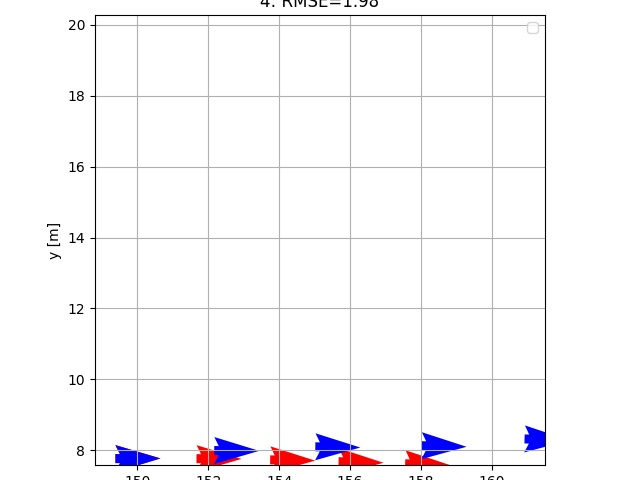
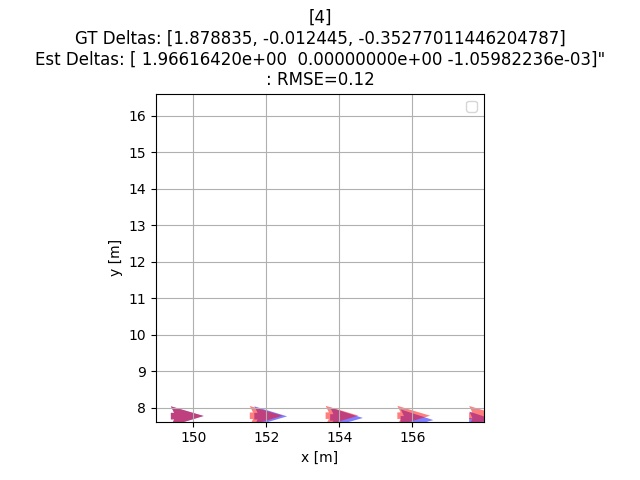
suspicious changes allow dead reckoning to work. only using dx, dth

diff --git a/getTransformKLT.py b/getTransformKLT.py
@@ -12,7 +12,7 @@ from parseData import getCartImageFromImgPaths, getRadarImgPaths, RANGE_RESOLUTI
 from utils import tic, toc
 
 from trajectoryPlotting import Trajectory, getGroundTruthTrajectory, plotGtAndEstTrajectory
-from utils import radarImgPathToTimestamp
+from utils import *
 
 PLOT_BAD_FEATURES = False
 
@@ -134,6 +134,7 @@ def calculateTransformSVD(
     Rx1 + h = x0
 
     Reference: https://www.sciencedirect.com/science/article/pii/002192909400116L
+               http://nghiaho.com/?page_id=671
     @see getCorrespondences.py
     Inputs:
     srcCoords       - (N, 2) array of source points, x0
@@ -158,6 +159,40 @@ def calculateTransformSVD(
     h = x0_mean - (R @ x1_mean.T).T
 
     return R, h.T
+
+def calculateTransformDxDth(
+        srcCoords: np.ndarray,
+        targetCoords: np.ndarray) -> tuple[np.ndarray, np.ndarray]:
+    assert len(srcCoords) == len(targetCoords)
+    R = np.zeros((2, 2))
+    h = np.zeros((2, 1))
+
+    N = len(srcCoords)
+
+    # Form A and b
+    A = np.empty((N * 2, 2))
+    b = np.empty((N * 2, 1))
+
+    # TODO: Please make this numpy vectorized
+    for i in range(N):
+        src = srcCoords[i]
+        target = targetCoords[i]
+        # Convention: x = [lambda, hx]
+        A[2 * i:2 * i + 2, :] = np.array([[-src[1], 1], [src[0], 0]])
+        b[2 * i:2 * i + 2, 0] = np.array([src[0] - target[0], src[1] - target[1]])
+
+    # Negate b because we want to go from Ax + b to min|| Ax - b ||
+    x = np.linalg.inv(A.T @ A) @ A.T @ b
+
+    # Approximate least squares solution
+    theta = float(x[0])
+    cth = np.cos(theta)
+    sth = np.sin(theta)
+    R = np.array([[cth, -sth], [sth, cth]])
+    print(f"Pixel displacement: {flatten(x)}")
+
+    h = np.array([[*x[1]], [0]])
+    return R, h
 
 def calculateTransform(
         srcCoords: np.ndarray,
@@ -191,8 +226,7 @@ def calculateTransform(
         target = targetCoords[i]
         # Convention: x = [lambda, hx, hy]
         A[2 * i:2 * i + 2, :] = np.array([[-src[1], 1, 0], [src[0], 0, 1]])
-        b[2 * i:2 * i + 2,
-          0] = np.array([src[0] - target[0], src[1] - target[1]])
+        b[2 * i:2 * i + 2, 0] = np.array([src[0] - target[0], src[1] - target[1]])
 
     # Negate b because we want to go from Ax + b to min|| Ax - b ||
     x = np.linalg.inv(A.T @ A) @ A.T @ b
@@ -202,7 +236,7 @@ def calculateTransform(
     cth = np.cos(theta)
     sth = np.sin(theta)
     R = np.array([[cth, -sth], [sth, cth]])
-    print(f"Pixel displacement: {x[1:]}")
+    print(f"Pixel displacement: {flatten(x)}")
 
     h = x[1:]
     '''
@@ -361,7 +395,7 @@ if __name__ == "__main__":
     gtTraj = getGroundTruthTrajectory(gtTrajPath)
     initTimestamp = radarImgPathToTimestamp(imgPathArr[startImgInd])
     
-    initPose = gtTraj.getPoseAtTimes(initTimestamp)[0,:]
+    initPose = gtTraj.getPoseAtTimes(initTimestamp)
     estTraj = Trajectory([initTimestamp], [initPose])
 
     good_old = None
@@ -400,19 +434,27 @@ if __name__ == "__main__":
             good_old, good_new = rejectOutliers(good_old, good_new)
 
             # Obtain transforms
-            R, h = calculateTransformSVD(good_old, good_new)
-            print(h)
-            h[0] += 0
+            R, h = calculateTransformDxDth(good_old, good_new)
+            h /= 2 # ????????????????????
+            # R, h = calculateTransformSVD(good_old, good_new)
+            # print(h)
+            # h[0] += 0
             # for i in range(good_old.shape[0]):
             #     plotFakeFeatures(good_old[i:i+1,:], (R @ good_new[i:i+1,:].T + h).T, show= True)
-            transformed_pts = (R @ good_new.T + h).T
-            print(f"RMSE = {np.sum(np.square(good_old - transformed_pts))}")
-            plotFakeFeatures(good_old, transformed_pts, good_new, show= True)
+            # transformed_pts = (R @ good_new.T + h).T
+            # print(f"RMSE = {np.sum(np.square(good_old - transformed_pts))}")
+            # plotFakeFeatures(good_old, transformed_pts, good_new, show = True)
             h *= RANGE_RESOLUTION_CART_M
 
             #R, h = estimateTransformUsingDelats(good_old, good_new)
 
-            print(f"R={R}\nh={h}")
+            currTimestamp = radarImgPathToTimestamp(imgPathArr[imgNo])
+            gt_deltas = gtTraj.getGroundTruthDeltasAtTime(currTimestamp)
+            gt_deltas[2] = np.rad2deg(gt_deltas[2])
+            est_deltas = convertRandHtoDeltas(R, h)
+            est_deltas[2] = np.rad2deg(est_deltas[2])
+            print(f"GT Deltas: {gt_deltas}")
+            print(f"Est Deltas: {est_deltas} (*dth in degrees)")
 
             # Visualizations
             plt.clf()
@@ -434,11 +476,15 @@ if __name__ == "__main__":
 
             # Plot Trajectories
             timestamp = radarImgPathToTimestamp(imgPathArr[imgNo])
-            estTraj.appendRelativeTransform(timestamp, R, h)
+            est_deltas = convertRandHtoDeltas(R, h)
+            dx = est_deltas[0]
+            dth = est_deltas[2]
+            estTraj.appendRelativeDxDth(timestamp, dx, dth)
+            # estTraj.appendRelativeTransform(timestamp, R, h)
             toSaveTrajPath = os.path.join(trajSavePath, f"{imgNo:04d}.jpg")
             plotGtAndEstTrajectory(gtTraj,
                                    estTraj,
-                                   imgNo,
+                                   f'[{imgNo}]\nGT Deltas: {gt_deltas}\nEst Deltas: {est_deltas}\n',
                                    savePath=toSaveTrajPath)
             # plt.pause(0.01)
 

diff --git a/trajectoryPlotting.py b/trajectoryPlotting.py
@@ -16,6 +16,20 @@ class Trajectory():
         self.timestamps = np.array(timestamps)
         self.poses = np.array(poses)
         self.pose_transform = convertPoseToTransform(self.poses[-1])
+
+    def getGroundTruthDeltasAtTime(self, time):
+        '''
+        @brief Given a timestamp, return the ground truth deltas at that time in (dx, dy, dth) list for debugging
+        '''
+        return self.gt_deltas[time]
+
+    def appendRelativeDxDth(self, time, dx, dth):
+        self.timestamps = np.append(self.timestamps, time)
+        x, y, th = self.poses[-1]
+        x += dx * np.cos(th)
+        y += dx * np.sin(th)
+        th += dth
+        self.poses = np.vstack((self.poses, [x, y, th]))
     
     def appendRelativeTransform(self, time, R, h):
         '''
@@ -37,6 +51,11 @@ class Trajectory():
         # Update pose_transforms and poses
         self.pose_transform = A @ self.pose_transform
         new_pose = convertTransformToPose(self.pose_transform)
+
+        # T = convertPoseToTransform(self.poses[-1])
+        # xy = T @ [*h, 1]
+        # dth = np.arctan2(T[1,0], T[0,0])
+        # new_pose = [*xy[0], *xy[1], self.poses[-1,2] + dth]
         self.poses = np.vstack((self.poses, new_pose))
 
     def getPoseAtTimes(self, times):
@@ -55,6 +74,8 @@ class Trajectory():
             poses = np.zeros((len(times), 3))
             for i,t in enumerate(times):
                 poses[i,:] = self.poses[np.argmin(np.abs(self.timestamps - t))]
+        if poses.shape[0] == 1 and type(times) == int:
+            poses = poses[0,:]
         return poses
 
     def plotTrajectory(self, title='My Trajectory', savePath=False):
@@ -66,6 +87,7 @@ class Trajectory():
         plt.axis('square')
         plt.title(title)
         if savePath:
+            plt.tight_layout()
             plt.savefig(savePath)
 
 def computePosesRMSE(gtPoses, estPoses):
@@ -102,6 +124,7 @@ def plotGtAndEstTrajectory(gtTraj, estTraj, title='GT and EST Trajectories', sav
     plt.axis('square')
     plt.title(f'{title}: RMSE={computePosesRMSE(gtPoses, estPoses):.2f}')
     if savePath:
+        plt.tight_layout()
         plt.savefig(savePath)
 
 def getGroundTruthTrajectory(gtPath):
@@ -116,6 +139,7 @@ def getGroundTruthTrajectory(gtPath):
 
         gt_timestamps = []
         gt_poses = []
+        d_xyths = {}
         x, y, th = 0, 0, 0
         for row in gt_reader:
             timestamp = int(row[9]) # destination_radar_timestamp
@@ -128,9 +152,12 @@ def getGroundTruthTrajectory(gtPath):
             th += dth
             th = normalize_angles(th)
             gt_poses.append([x,y,th])
+            d_xyths[timestamp] = [dx,dy,dth]
     gt_timestamps = np.array(gt_timestamps)
     gt_poses = np.array(gt_poses)
-    return Trajectory(gt_timestamps, gt_poses)
+    gt_traj = Trajectory(gt_timestamps, gt_poses)
+    gt_traj.gt_deltas = d_xyths
+    return gt_traj
 
 def getGroundTruthTrajectoryGPS(gtPath):
     '''

diff --git a/testTransform.py b/testTransform.py
@@ -1,4 +1,4 @@
-from getTransformKLT import calculateTransformSVD, calculateTransform
+from getTransformKLT import calculateTransformSVD, calculateTransform, calculateTransformDxDth
 from genFakeData import *
 
 if __name__ == "__main__":
@@ -22,16 +22,17 @@ if __name__ == "__main__":
                                     noiseToAdd=10)
     
     # Fit a rotation and translation
-    if useOld:
-        R_fit, h_fit = calculateTransform(srcCoord, targetCoord)
+    # if useOld:
+    #     R_fit, h_fit = calculateTransform(srcCoord, targetCoord)
 
-        A = np.block([[R_fit, h_fit],
-                    [np.zeros((1, 2)), 1]])
-        A_inv = np.linalg.inv(A)
-        R_fit = A_inv[:2, :2]
-        h_fit = A_inv[:2, 2:]
-    else:
-        R_fit, h_fit = calculateTransformSVD(srcCoord, targetCoord)
+    #     A = np.block([[R_fit, h_fit],
+    #                 [np.zeros((1, 2)), 1]])
+    #     A_inv = np.linalg.inv(A)
+    #     R_fit = A_inv[:2, :2]
+    #     h_fit = A_inv[:2, 2:]
+    # else:
+    #     R_fit, h_fit = calculateTransformSVD(srcCoord, targetCoord)
+    R_fit, h_fit = calculateTransformDxDth(srcCoord, targetCoord)
 
     theta_fit = np.arctan2(R_fit[1, 0], R_fit[0, 0]) * 180 / np.pi
     print(f"Actual Transform:\ntheta:\n{theta_deg}\nh:\n{h}")

diff --git a/utils.py b/utils.py
@@ -79,6 +79,15 @@ def convertTransformToPose(pose_transforms):
         pose_transforms = pose_transforms[0, :]
     return pose_transforms
 
+def flatten(x):
+    return x.reshape(x.shape[0])
+
+def convertRandHtoDeltas(R, h):
+    dx = float(*h[0])
+    dy = float(*h[1])
+    dth = np.arctan2(R[1,0], R[0,0])
+    return np.array([dx, dy, dth])
+
 def quiver(poses, c='r'):
     poses = np.array(poses)
     plt.quiver(
@@ -89,4 +98,5 @@ def quiver(poses, c='r'):
         color=c,
         width=0.02,
         scale=10,
+        alpha=.5,
     )

diff --git a/genFakeData.py b/genFakeData.py
@@ -143,6 +143,8 @@ def createOutliers(data, n_outliers, noiseToAdd=10):
 def generateTranslationVector(max_range_m=10):
     h = np.random.random((2, 1))
     h *= max_range_m / RANGE_RESOLUTION_CART_M
+    # limit y translation
+    # h[1] /= 300
     return h
 
 
